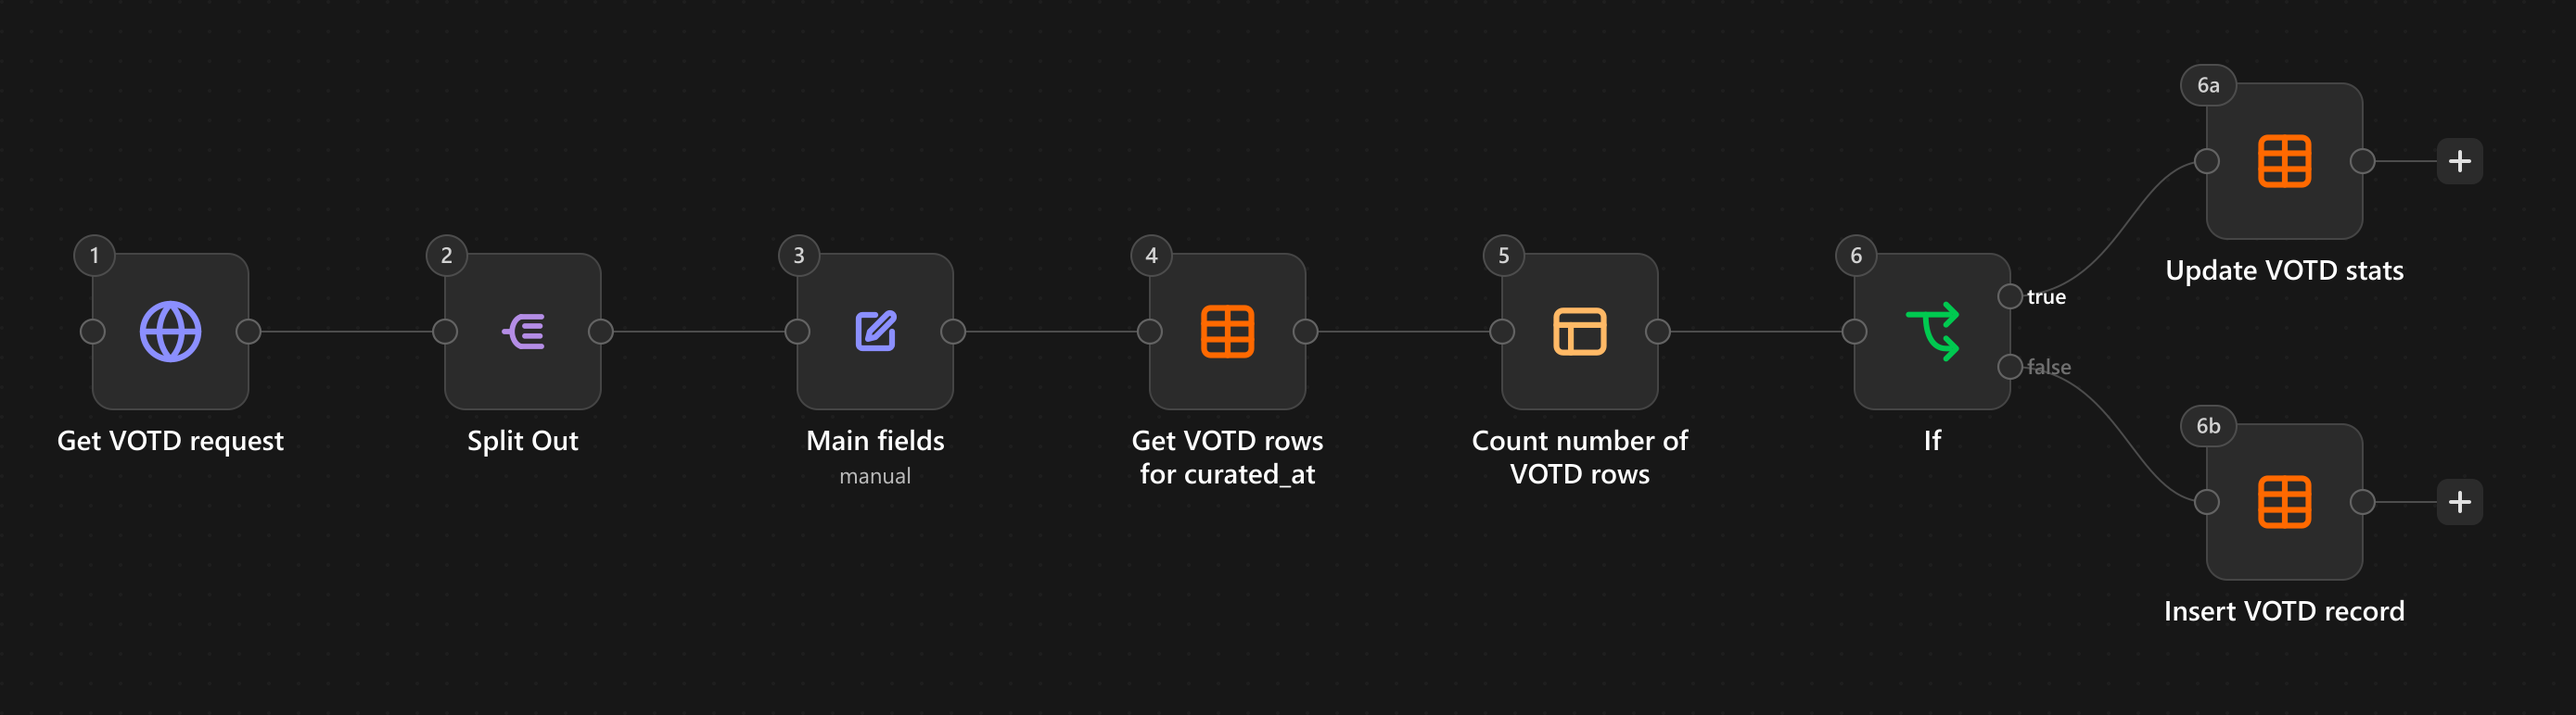
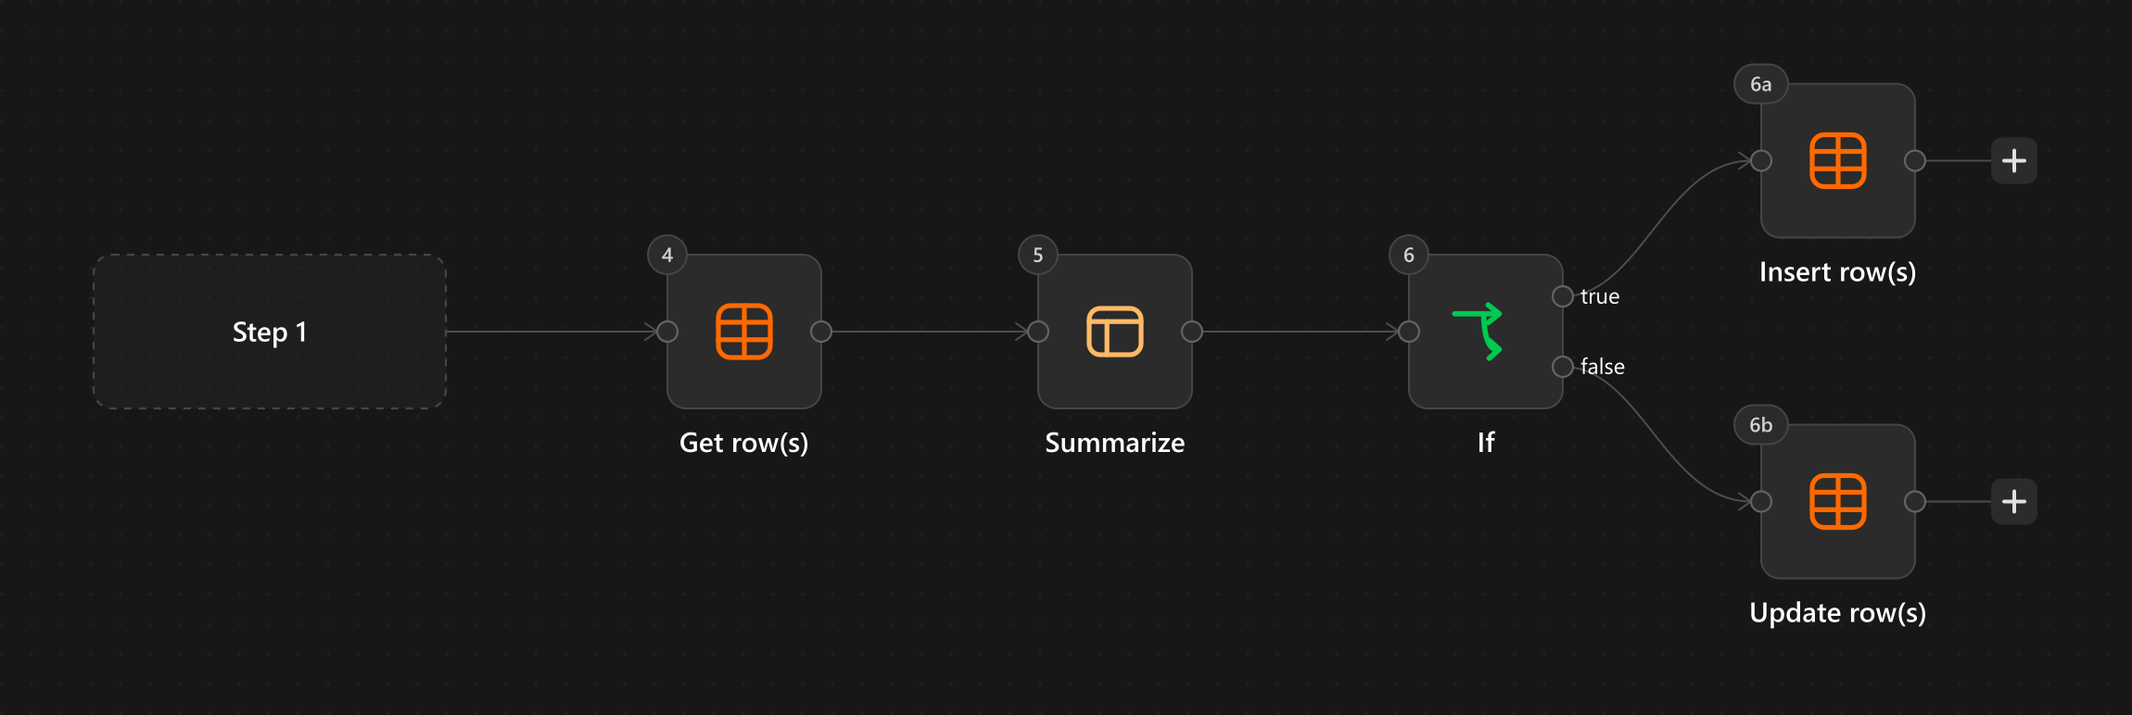
second draft of n8n automation

diff --git a/src/data/data-tables.ts b/src/data/data-tables.ts
@@ -4,7 +4,7 @@
  * Edit these lists to change what <SchemaTable /> renders:
  * - name: column name (rendered as-is, monospace)
  * - type: data type shown in the pill (INT, String, Number, DATETIME…)
- * - comment: optional note rendered under the row (small muted line)
+ * - comment: optional note rendered inline, right after the column name
  * - ellipsis: renders a "…" placeholder row (use it to hide columns)
  *
  * Usage:
@@ -17,11 +17,13 @@ export interface SchemaColumn {
   comment?: string;
   /** Render a "…" placeholder row instead of a field. */
   ellipsis?: boolean;
+  /** Tint the row (accent wash + accent borders) to call the field out. */
+  highlight?: boolean;
 }
 
 export const tableSchemas = {
   viz_of_the_day: [
-    { name: 'id', type: 'INT' },
+    { name: 'id', type: 'INT' , comment:'# Auto managed by n8n'},
     { name: 'author_profile', type: 'String' },
     { name: 'author_name', type: 'String' },
     { name: 'viz_url', type: 'String' },
@@ -29,23 +31,24 @@ export const tableSchemas = {
       name: 'engagement metrics',
       type: 'Number',
       comment:
-        'Every reaction is stored twice — the count from when the viz was first tracked and the count from the latest check — so engagement growth can be compared.',
+        '# The count from when the viz was first tracked and the count from the latest check — so engagement growth can be compared.',
     },
     {
       name: 'curated_at',
       type: 'String',
+      highlight: true,
       comment:
-        'The date of the Viz of the Day. Our workflow filters on this column to tell whether a viz is new or already being tracked.',
+        '# The date of the Viz of the Day. Our workflow filters on this column to tell whether a viz is new or already being tracked.',
     },
-    { name: 'createdAt', type: 'DATETIME' },
-    { name: 'updatedAt', type: 'DATETIME' },
+    { name: 'createdAt', type: 'DATETIME', comment:'# Auto managed by n8n'},
+    { name: 'updatedAt', type: 'DATETIME', comment:'# Auto managed by n8n'},
   ],
   summary_posting: [
-    { name: 'id', type: 'INT' },
-    { name: 'summary', type: 'String' },
-    { name: 'curated_at', type: 'String' },
-    { name: 'createdAt', type: 'DATETIME' },
-    { name: 'updatedAt', type: 'DATETIME' },
+    { name: 'id', type: 'INT', comment:'# Auto managed by n8n'},
+    { name: 'summary', type: 'String'},
+    { name: 'curated_at', type: 'String', highlight: true, comment: "# The date of the Viz of the Day"},
+    { name: 'createdAt', type: 'DATETIME', comment:'# Auto managed by n8n'},
+    { name: 'updatedAt', type: 'DATETIME', comment:'# Auto managed by n8n'},
   ],
 } satisfies Record<string, SchemaColumn[]>;
 
